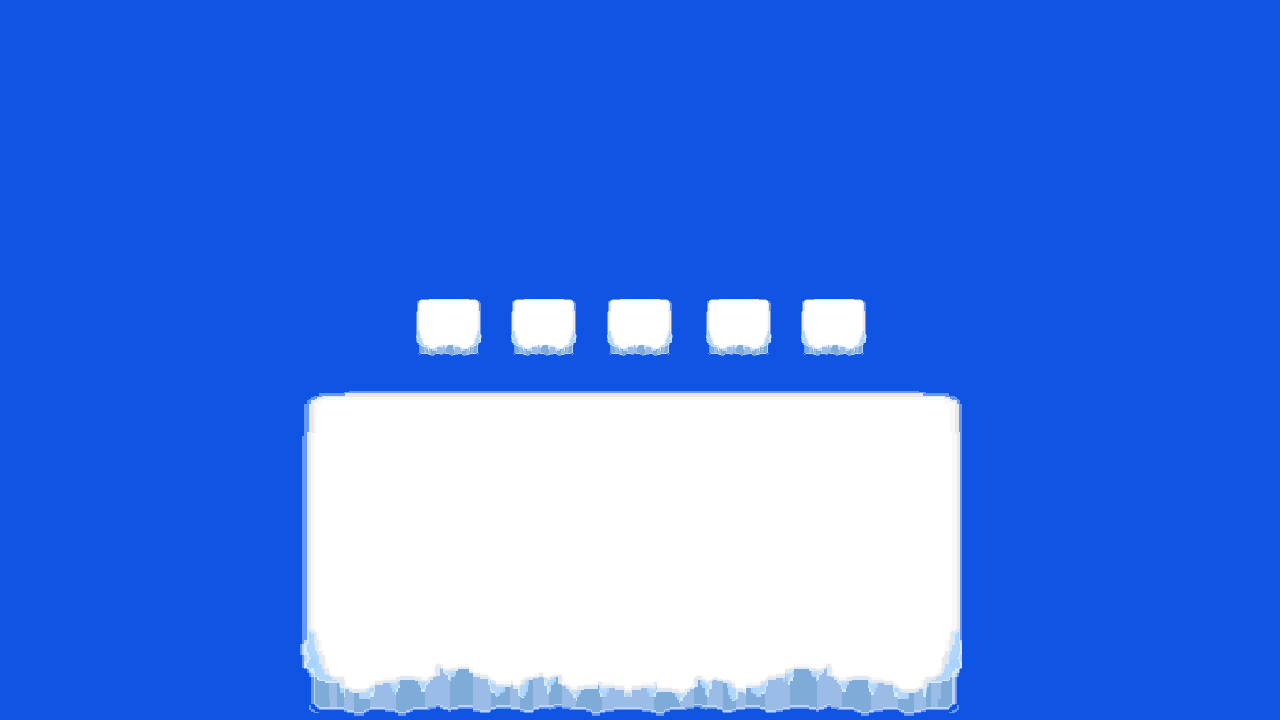
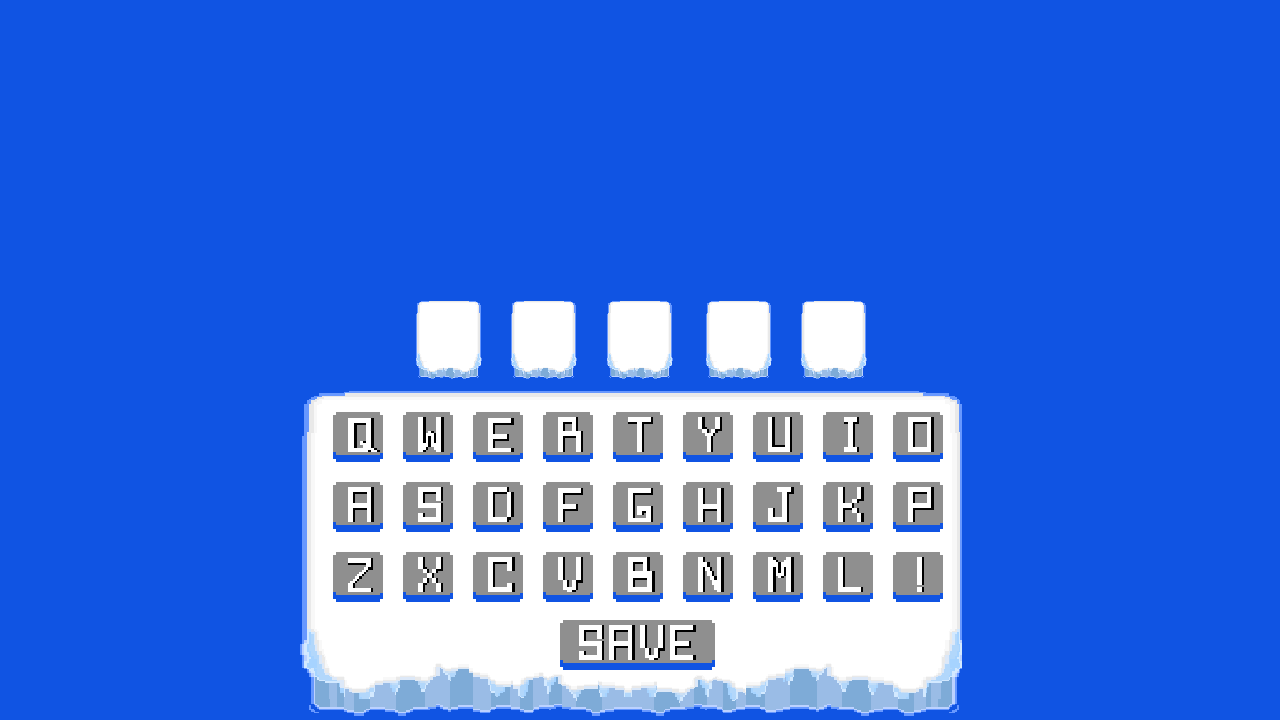
New Highscore Menu fixed, removed asset and added to bg instead. Emitter fixed

Changed region(s): [[0.25, 0.6722, 0.75, 0.9472], [0.25, 0.4583, 0.75, 0.6417], [0.3438, 0.3972, 0.375, 0.4278]]

diff --git a/src/scene/gameover/NewHighscore.js b/src/scene/gameover/NewHighscore.js
@@ -2,16 +2,25 @@
 // Constructor scope
 //--------------------------------
 
-ArcticMadness.scene.NewHighscore = function (score, numberOfPlayers, bestScore,menuSound) {
+ArcticMadness.scene.NewHighscore = function (score, numberOfPlayers, bestScore, menuSound) {
   this.score = score;
   this.numberOfPlayers = numberOfPlayers;
+  this.background = null;
+  this.newHighscoreText = null;
+  this.scoreText = null;
+  this.headerGraphics = null;
   this.bestScore = bestScore;
-  this.visualKeyboard = null;
   this.selectBox = null;
   this.ListName = "";
   this.ListNameText = null;
   this.titleText = null;
+  this.particleX = 300;
+  this.particleY = 500;
+  this.particleTimer = null;
   this.menuSound = menuSound;
+  this.moveSound = null;
+  this.chooseSound = null;
+
 
 
 
@@ -45,10 +54,13 @@ ArcticMadness.scene.NewHighscore.prototype.init = function () {
   rune.scene.Scene.prototype.init.call(this);
   this.m_createBackground();
   this.m_createNewHighscoreText();
+  this.m_createHeaderGraphics();
   this.m_createScoreText();
-  this.m_initVisualKeyboard();
   this.m_initSelectBox();
-  this.menuSound.fade(1,3000);
+  this.m_createParticleTimer();
+  this.m_createEmitter();
+  this._createSound();
+  this.menuSound.fade(1, 3000);
 };
 
 ArcticMadness.scene.NewHighscore.prototype.update = function (step) {
@@ -61,9 +73,15 @@ ArcticMadness.scene.NewHighscore.prototype.update = function (step) {
 //------------------------------------------------------------------------------
 
 ArcticMadness.scene.NewHighscore.prototype.dispose = function () {
-  this.stage.removeChild(this.visualKeyboard, true);
   this.stage.removeChild(this.selectBox, true);
   this.stage.removeChild(this.ListNameText, true);
+  this.stage.removeChild(this.particleTimer, true);
+  this.stage.removeChild(this.m_emitter, true);
+  this.stage.removeChild(this.newHighscoreText, true);
+  this.stage.removeChild(this.scoreText, true);
+  this.stage.removeChild(this.headerGraphics, true);
+  this.stage.removeChild(this.background, true);
+
   rune.scene.Scene.prototype.dispose.call(this);
 };
 
@@ -82,6 +100,19 @@ ArcticMadness.scene.NewHighscore.prototype.m_createBackground = function () {
   this.stage.addChild(this.background);
 };
 
+ArcticMadness.scene.NewHighscore.prototype._createSound = function () {
+  this.moveSound = this.application.sounds.sound.get("shoot");
+  this.chooseSound = this.application.sounds.sound.get("repaircomplete");
+};
+
+ArcticMadness.scene.NewHighscore.prototype.m_createHeaderGraphics = function () {
+  this.headerGraphics = new rune.display.Sprite(240, 20, 800, 200, "highscorebar");
+  this.headerGraphics.animation.create("lights", [4, 3, 4, 3, 1, 2, 1, 2], 5, true);
+  this.headerGraphics.animation.gotoAndPlay("lights");
+  this.stage.addChild(this.headerGraphics);
+
+};
+
 ArcticMadness.scene.NewHighscore.prototype.m_createNewHighscoreText =
   function () {
     if (this.bestScore) {
@@ -95,12 +126,10 @@ ArcticMadness.scene.NewHighscore.prototype.m_createNewHighscoreText =
       "thefont"
     );
     this.newHighscoreText.autoSize = true;
-    this.newHighscoreText.width = 250;
-    this.newHighscoreText.height = 50;
-    this.newHighscoreText.x = 200;
-    this.newHighscoreText.y = 100;
-    this.newHighscoreText.scaleX = 2;
-    this.newHighscoreText.scaleY = 2;
+    this.newHighscoreText.scaleX = 4;
+    this.newHighscoreText.scaleY = 4;
+    this.newHighscoreText.center = this.application.screen.center;
+    this.newHighscoreText.y = 80;
     this.stage.addChild(this.newHighscoreText);
   };
 
@@ -111,23 +140,50 @@ ArcticMadness.scene.NewHighscore.prototype.m_createScoreText = function () {
   this.scoreText.scaleX = 3;
   this.scoreText.scaleY = 3;
   this.scoreText.center = this.application.screen.center;
-  this.scoreText.y = 200;
+  this.scoreText.y = 230;
   this.stage.addChild(this.scoreText);
 };
 
-ArcticMadness.scene.NewHighscore.prototype.m_initVisualKeyboard = function () {
-  this.visualKeyboard = new rune.display.Graphic(
-    325,
-    400,
-    630,
-    280,
-    "keyboard");
-  this.stage.addChild(this.visualKeyboard);
-};
+
+//Emitter
+ArcticMadness.scene.NewHighscore.prototype.m_createEmitter = function () {
+  this.particleX = Math.random() * 1280;
+  this.particleY = Math.random() * 720;
+  this.m_emitter = new rune.particle.Emitter(this.particleX, this.particleY, 30, 20, {
+      particles: [ArcticMadness.entity.Particle],
+      capacity: 100,
+      accelrationY: 1,
+      maxVelocityX: 4,
+      minVelocityX: -4,
+      maxVelocityY: 4,
+      minVelocityY: -4,
+      minRotation: 0,
+      maxRotation: 20
+  });
+
+  this.stage.addChild(this.m_emitter);
+  this.m_emitter.emit(30);
+
+}
+
+
+// DISPOSE INFINITY TIMER??
+ArcticMadness.scene.NewHighscore.prototype.m_createParticleTimer = function () {
+   this.particleTimer = this.timers.create({
+      duration: 3000,
+      repeat: Infinity,
+      scope: this,
+
+      onTick: function () {
+     
+          this.m_createEmitter();
+      },
+     
+
+  });
+}
 
 ArcticMadness.scene.NewHighscore.prototype.m_initSelectBox = function () {
-  // this.selectBox = new rune.display.Graphic(325, 400, 70, 70, "selected");
-  // this.stage.addChild(this.selectBox);
   this.selectBox = new rune.display.Sprite(325, 400, 70, 70, "selected"); //funkar med sprite?
   this.selectBox.animation.create("active", [0, 1, 2], 8, true);
   this.stage.addChild(this.selectBox);
@@ -137,15 +193,23 @@ ArcticMadness.scene.NewHighscore.prototype.m_handleSelectBoxMovement =
     var gamepad = this.gamepads.get(0);
     if (gamepad.justPressed(12) && this.selectBox.y > 400) {
       this.selectBox.y -= 70;
+      this.moveSound.play();
+      this.moveSound.loop = false;
     }
     if (gamepad.justPressed(13) && this.selectBox.y < 610) {
       this.selectBox.y += 70;
+      this.moveSound.play();
+      this.moveSound.loop = false;
     }
     if (gamepad.justPressed(14) && this.selectBox.x > 325) {
       this.selectBox.x -= 70;
+      this.moveSound.play();
+      this.moveSound.loop = false;
     }
     if (gamepad.justPressed(15) && this.selectBox.x < 885) {
       this.selectBox.x += 70;
+      this.moveSound.play();
+      this.moveSound.loop = false;
     }
     if (this.selectBox.y > 540) {
       this.selectBox.x = 535;
@@ -159,6 +223,8 @@ ArcticMadness.scene.NewHighscore.prototype.m_handleSelectBoxInput =
   function () {
     var gamepad = this.gamepads.get(0);
     if (gamepad.justPressed(0)) {
+      this.chooseSound.play();
+      this.chooseSound.loop = false;
 
       if (this.selectBox.x == 325 && this.selectBox.y == 400) {
         this.updateListName("q ");
@@ -258,12 +324,12 @@ ArcticMadness.scene.NewHighscore.prototype.m_removeLetter = function () {
         this.ListNameText = new rune.text.BitmapField(this.ListName, "thefont");
         this.ListNameText.autoSize = true;
         this.ListNameText.x = 430;
-        this.ListNameText.y = 275;
+        this.ListNameText.y = 300;
         this.ListNameText.scaleX = 4;
         this.ListNameText.scaleY = 4;
         this.stage.addChild(this.ListNameText);
       }
-    } //Rensar inte allt? 
+    } 
   }
 }
 
@@ -280,7 +346,7 @@ ArcticMadness.scene.NewHighscore.prototype.updateListName = function (letter) {
   this.ListNameText = new rune.text.BitmapField(this.ListName, "thefont");
   this.ListNameText.autoSize = true;
   this.ListNameText.x = 430;
-  this.ListNameText.y = 275;
+  this.ListNameText.y = 300;
   this.ListNameText.scaleX = 4;
   this.ListNameText.scaleY = 4;
   this.stage.addChild(this.ListNameText);
